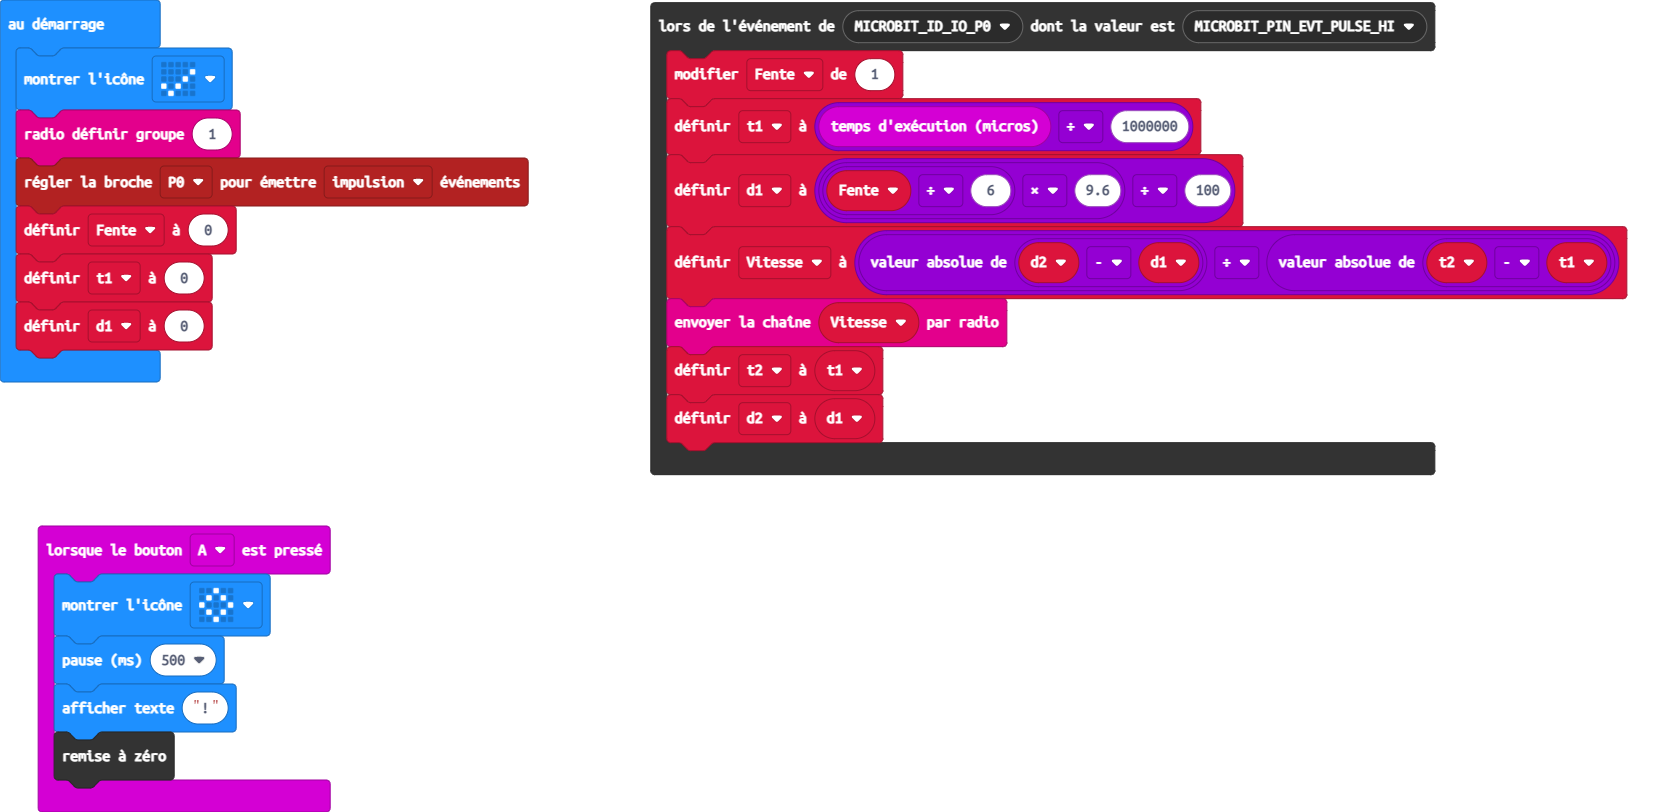
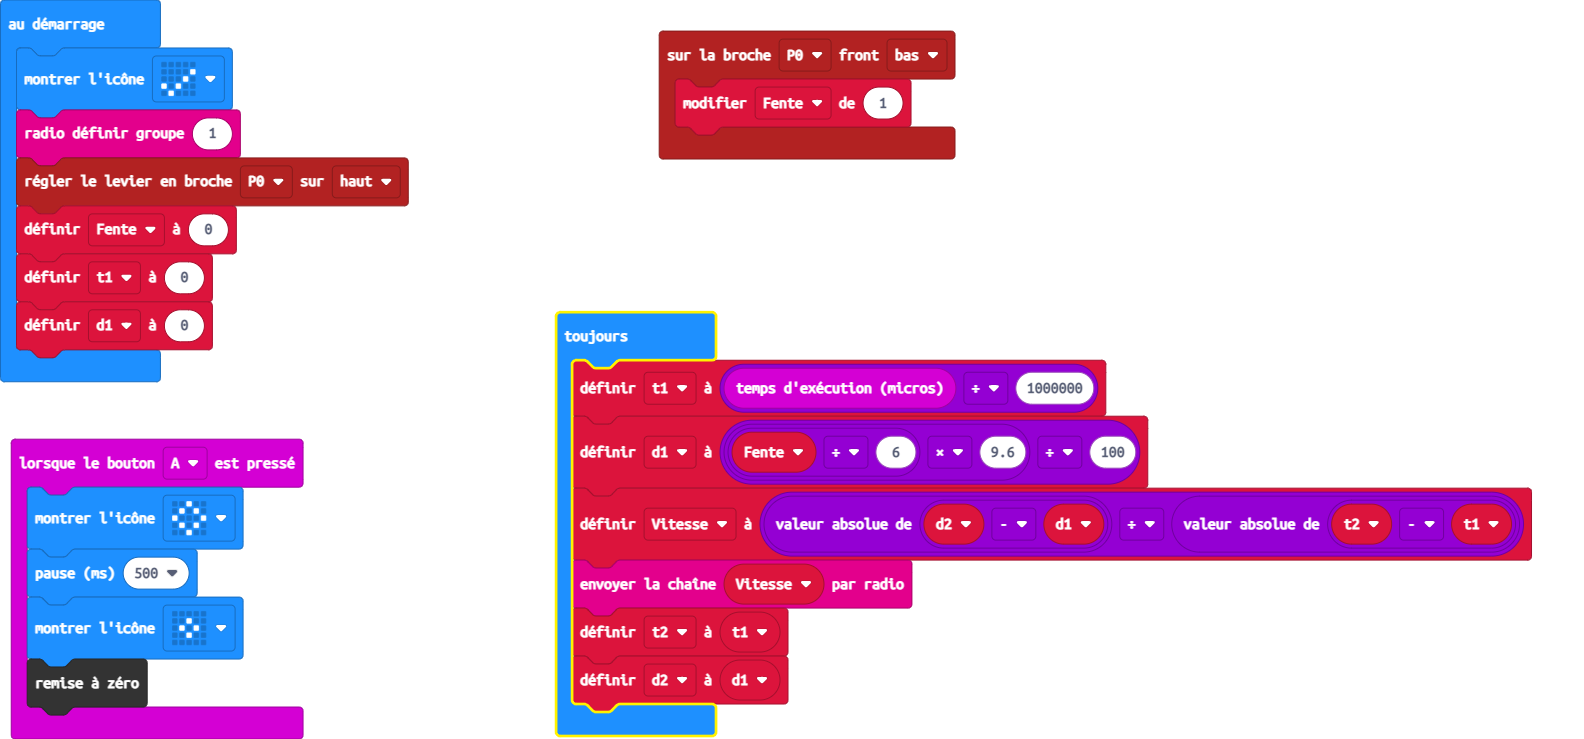
Mise à jour pxt.json, main.blocks, main.ts

diff --git a/main.ts b/main.ts
@@ -1,5 +1,22 @@
-control.onEvent(EventBusSource.MICROBIT_ID_IO_P0, EventBusValue.MICROBIT_PIN_EVT_PULSE_HI, function () {
+input.onButtonPressed(Button.A, function () {
+    basic.showIcon(IconNames.Diamond)
+    basic.pause(500)
+    basic.showIcon(IconNames.SmallDiamond)
+    control.reset()
+})
+pins.onPulsed(DigitalPin.P0, PulseValue.Low, function () {
     Fente += 1
+})
+let t2 = 0
+let d2 = 0
+let Vitesse = 0
+basic.showIcon(IconNames.Yes)
+radio.setGroup(1)
+pins.setPull(DigitalPin.P0, PinPullMode.PullUp)
+let Fente = 0
+let t1 = 0
+let d1 = 0
+basic.forever(function () {
     t1 = input.runningTimeMicros() / 1000000
     d1 = Fente / 6 * 9.6 / 100
     Vitesse = Math.abs(d2 - d1) / Math.abs(t2 - t1)
@@ -7,21 +24,3 @@ control.onEvent(EventBusSource.MICROBIT_ID_IO_P0, EventBusValue.MICROBIT_PIN_EVT
     t2 = t1
     d2 = d1
 })
-input.onButtonPressed(Button.A, function () {
-    basic.showIcon(IconNames.Diamond)
-    basic.pause(500)
-    basic.showString("!")
-    control.reset()
-})
-let t2 = 0
-let d2 = 0
-let Vitesse = 0
-let d1 = 0
-let t1 = 0
-let Fente = 0
-basic.showIcon(IconNames.Yes)
-radio.setGroup(1)
-pins.setEvents(DigitalPin.P0, PinEventType.Pulse)
-Fente = 0
-t1 = 0
-d1 = 0
